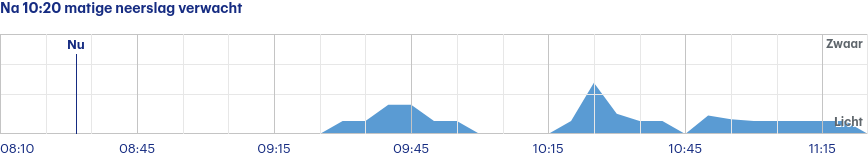
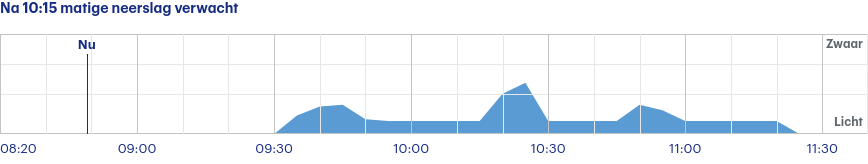
Latest scraping buienradar: Fri Aug  4 06:40:32 UTC 2023

diff --git a/scrapes/buienradar/buienradar-jette-3-uur.md b/scrapes/buienradar/buienradar-jette-3-uur.md
@@ -1,4 +1,4 @@
-Na 10:20 matige neerslag verwacht
+Na 10:15 matige neerslag verwacht
 
 ![](buienradar-jette-3-uur.png)
 
